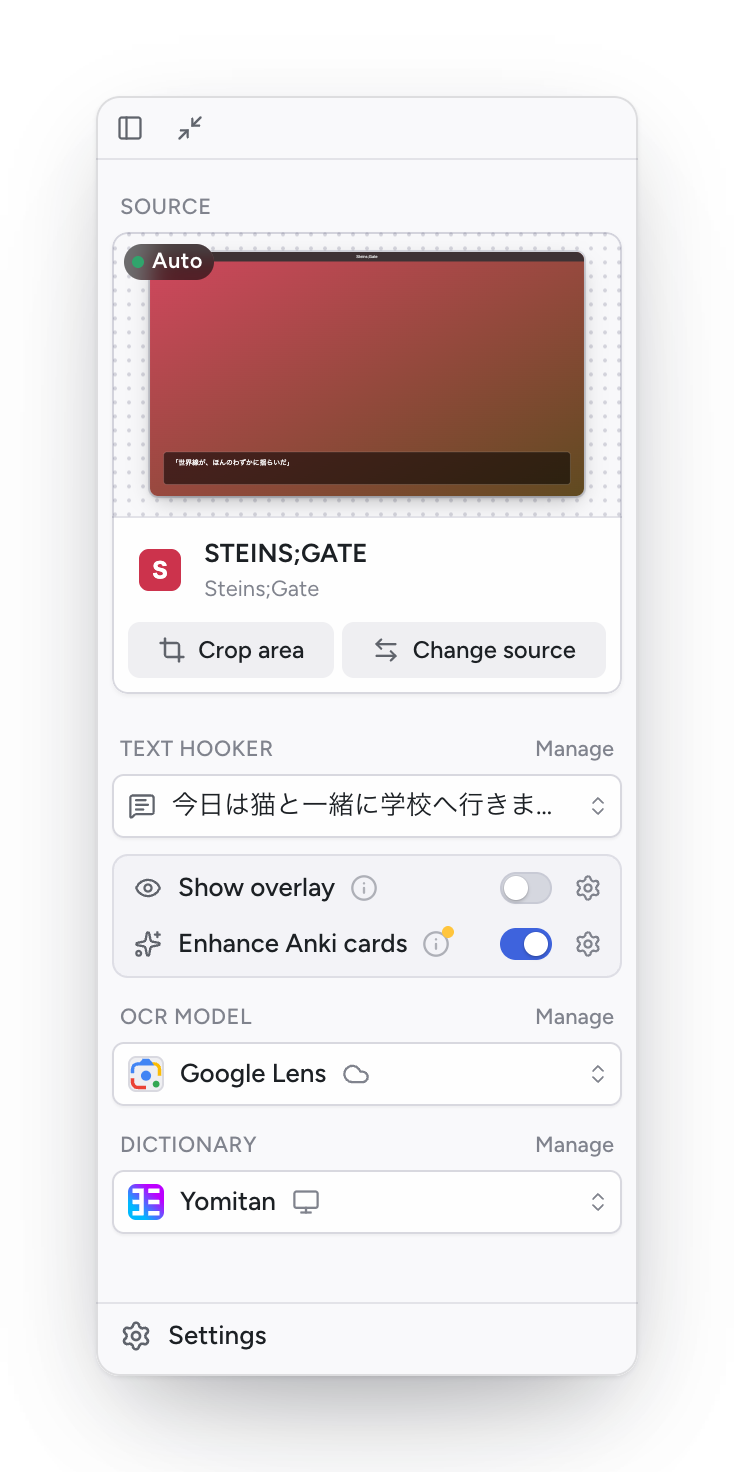
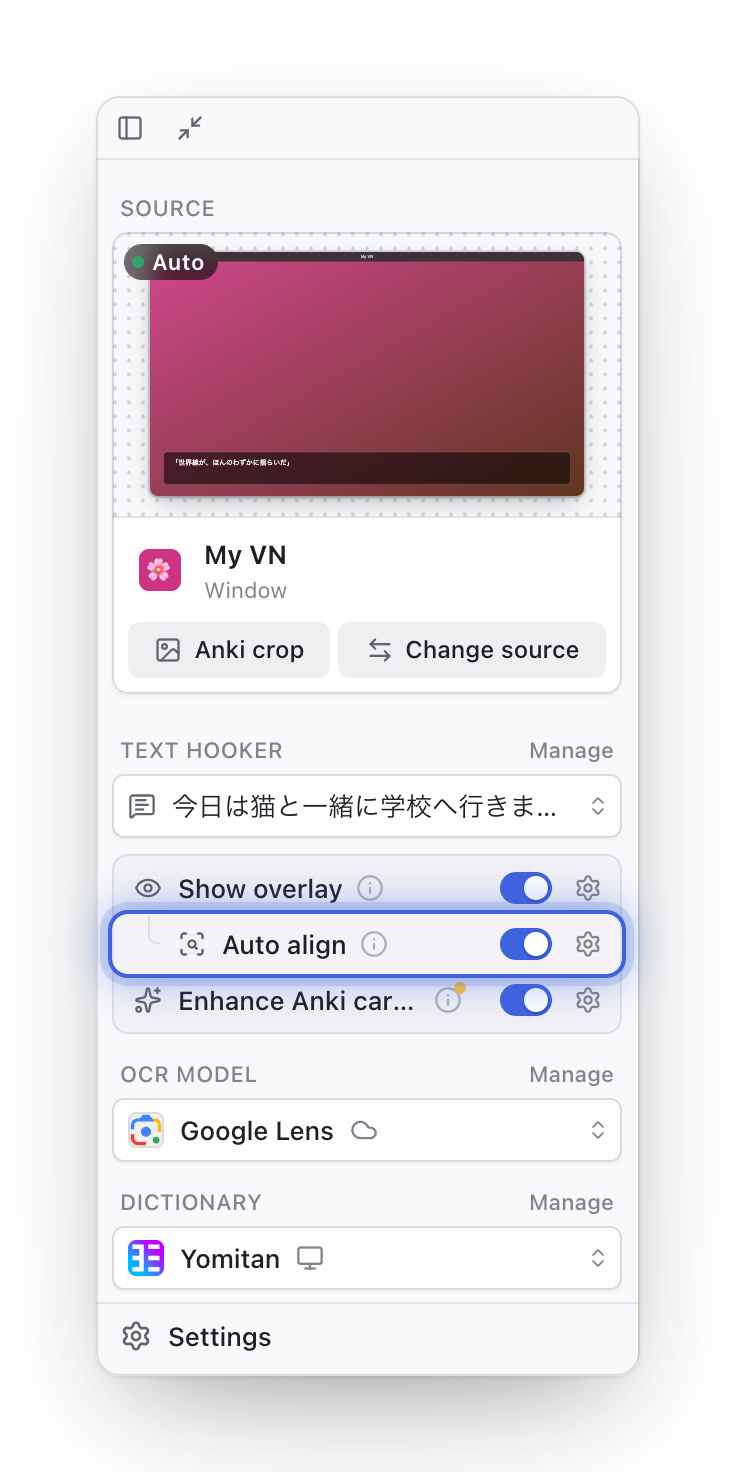
Docs: draw the overlay hint bar and the Auto align switch; a README screenshot
The overlay stage's overlay-words scene takes ?hints=1 (the real hint bar),
and the preview harness ?overlay=1 (Show overlay on), so the last two
'Screenshot to come' items can be drawn.

diff --git a/frontend/dev/stage/stage.ts b/frontend/dev/stage/stage.ts
@@ -24,6 +24,8 @@
  *   ?hover=<x>,<y>   overlay-words: rest the pointer there (page points) so the proximity glow shows
  *   ?lookup=1        overlay-words: look up the first word on load (the pop-up open);
  *                    hook-card: look up ?word= (default 天気) in the card
+ *   ?hints=1         overlay-words: the hint bar (ui/overlay-hints.js), under the game window
+ *                    with ?windowed=1, else along the bottom
  *   ?armed=1         hook-card: Shift held over the card (its bar, size buttons and corner show)
  *   ?theme=light|dark  the pop-up's, the region editor's and the controller's appearance (default:
  *                    the browser's)
@@ -70,6 +72,7 @@ import '@ui/overlay-text.css'
 import '@ui/controller.css'
 import '@ui/controller-variants.css'
 import '@ui/hook-card.css'
+import '@ui/overlay-hints.css'
 // The app bundles Figtree for the overlay as fonts/figtree.css (prepare.mjs); here, from the package.
 import '@fontsource-variable/figtree/wght.css'
 import '@fontsource/zen-kaku-gothic-antique/500.css'
@@ -78,6 +81,7 @@ import './stage.css'
 import { TextOverlayRenderer } from '@ui/render.js'
 import { createController } from '@ui/controller.js'
 import { createHookCard } from '@ui/hook-card.js'
+import { createOverlayHints } from '@ui/overlay-hints.js'
 import { BUTTON } from '@ui/controller-input.js'
 import { HoverOverlay } from '@ui/hover.js'
 import { RegionSelect } from '@ui/region-select.js'
@@ -532,6 +536,11 @@ async function play(): Promise<void> {
     case 'overlay-words': {
       const at = params.get('hover')?.split(',').map(Number)
       if (at?.length === 2) renderer.setPointer(at[0], at[1])
+      if (flag('hints')) {
+        const hints = createOverlayHints(document.body, { onDismiss: () => undefined })
+        hints.sync(true, true)
+        hints.place(flag('windowed') ? game.area : null)
+      }
       if (flag('lookup')) {
         const first = words.querySelector<HTMLElement>('.ocr-word, .ocr-group')
         const text = first?.textContent ?? ''

diff --git a/frontend/dev/preview-setup.ts b/frontend/dev/preview-setup.ts
@@ -20,6 +20,7 @@
  *                    selects it: the view state follows `commit_source`, `clear_source` and the
  *                    Auto OCR and Show overlay switches)
  *   ?auto=0          Auto OCR starts off (default: on)
+ *   ?overlay=1       Show overlay starts on (with input=hook, the Auto align switch shows under it)
  *   ?crop=1          main window: the chosen source has a crop region
  *   ?ankiCrop=1      main window: the chosen source has an Anki crop (the green outline)
  *   ?source=<id>     main window: the chosen demo source (e.g. window:106, a tall one)
@@ -247,6 +248,7 @@ const settings: Record<string, unknown> = {
   // The marketing demo reads as the app does on a desktop: MeikiOCR (what its Log lines say they
   // were read with) and the overlay on.
   ...(params.get('embed') === '1' ? { ocrMode: 'meikiocr', liveOverlayEnabled: true } : {}),
+  ...(params.get('overlay') === '1' ? { liveOverlayEnabled: true } : {}),
   // In the UI studio (frontend/dev/studio/): any stored setting, edited there as JSON.
   ...studioJson<Record<string, unknown>>('settings')
 }

diff --git a/site-docs/DOCS_TODO.md b/site-docs/DOCS_TODO.md
@@ -8,17 +8,6 @@ page with `<Todo>TODO(hamish): …</Todo>`, which shows as a dashed box in the d
 
 Nothing open. All questions were answered on 2026-10-22.
 
-## Screenshots the pipeline can't draw yet
-
-The preview harness has no overlay, so these are described in text with a "Screenshot to come"
-note on the page:
-
-- **The Text Hooker's card over a game** (`reading/text-hooker`), ideally with Auto align on and the
-  card's −, + and ⋯ controls showing.
-- **The overlay's hint bar** ("Hold Shift to look up words and click text", `reading/overlay`).
-- **The sidebar's Auto align switch** under Show overlay for a hooked game: the harness's `hook-card`
-  shot has the overlay off, so the switch isn't in it.
-
 ## Things the docs left out on purpose
 
 - **Custom OCR endpoint.** The app can read one from its settings file, but there is no setting for

diff --git a/README.md b/README.md
@@ -17,7 +17,10 @@
   <a href="https://kimochiapp.com"><b>Download Kimochi and learn more at kimochiapp.com →</b></a>
 </p>
 
-<!-- TODO(owner): add one screenshot here. -->
+<picture>
+  <source media="(prefers-color-scheme: dark)" srcset="site-docs/src/assets/screenshots/main-window-dark.webp">
+  <img src="site-docs/src/assets/screenshots/main-window-light.webp" alt="Kimochi's main window: the source and its switches in the sidebar, and the Log of scanned lines.">
+</picture>
 
 ## What it is
 
